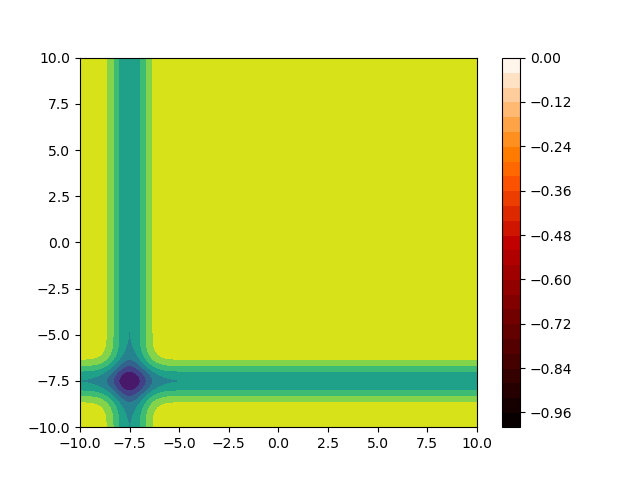
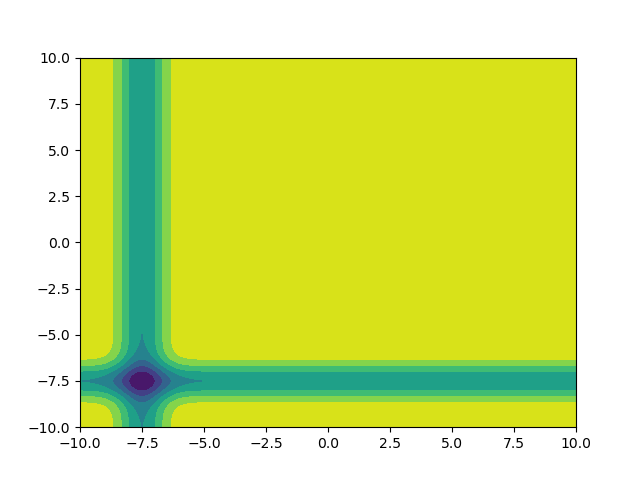
Malfunctioning

diff --git a/el_band.py b/el_band.py
@@ -137,7 +137,7 @@ x,y,Z = mapCreation(offs,N=N)
 spacing = (max(x)-min(x))/N
 bound = [(-10+spacing,10-spacing) for _ in range((N_band-2)*2)]
 
-res = opt.minimize(Energy,band_list[1:-1],args=(band_list[0],band_list[-1],x,y,Z,N,k),method='L-BFGS-B',bounds=bound,jac='2-point',options={'maxiter':80,'disp':True,'eps':spacing})
+res = opt.minimize(Energy,band_list[1:-1],args=(band_list[0],band_list[-1],x,y,Z,N,k),method='L-BFGS-B',bounds=bound,jac='2-point',options={'disp':True,'eps':spacing})
 
 #%%
 new_x = np.array(res.x[::2])
@@ -145,8 +145,15 @@ new_y = np.array(res.x[1::2])
 new_band = np.stack((new_x,new_y))
 #print(new_band)
 X,Y = np.meshgrid(x,y)
-plt.contourf(X,Y,Z,levels=25,cmap='gist_heat')
-plt.colorbar()
-plt.scatter(new_band[0],new_band[1],c='green')
-plt.scatter(band[:,0],band[:,1],c='red',s=1)
-plt.show()
+fig = plt.figure()
+ax = fig.add_subplot()
+cont = ax.contourf(X,Y,Z,levels=25,cmap='gist_heat')
+fig.colorbar(cont)
+ax.scatter(new_band[0],new_band[1],c='blue',s=10,label='relaxed band')
+ax.scatter(band[:,0],band[:,1],c='red',s=1,label='initial band')
+ax.set_xlabel('x coordinate of the map')
+ax.set_ylabel('y coordinate of the map')
+ax.legend()
+ax.set_title(f'Test of the band with k={k} for the trench')
+fig.savefig(f'El_band_k_{k}_trench.png')
+fig.show()
